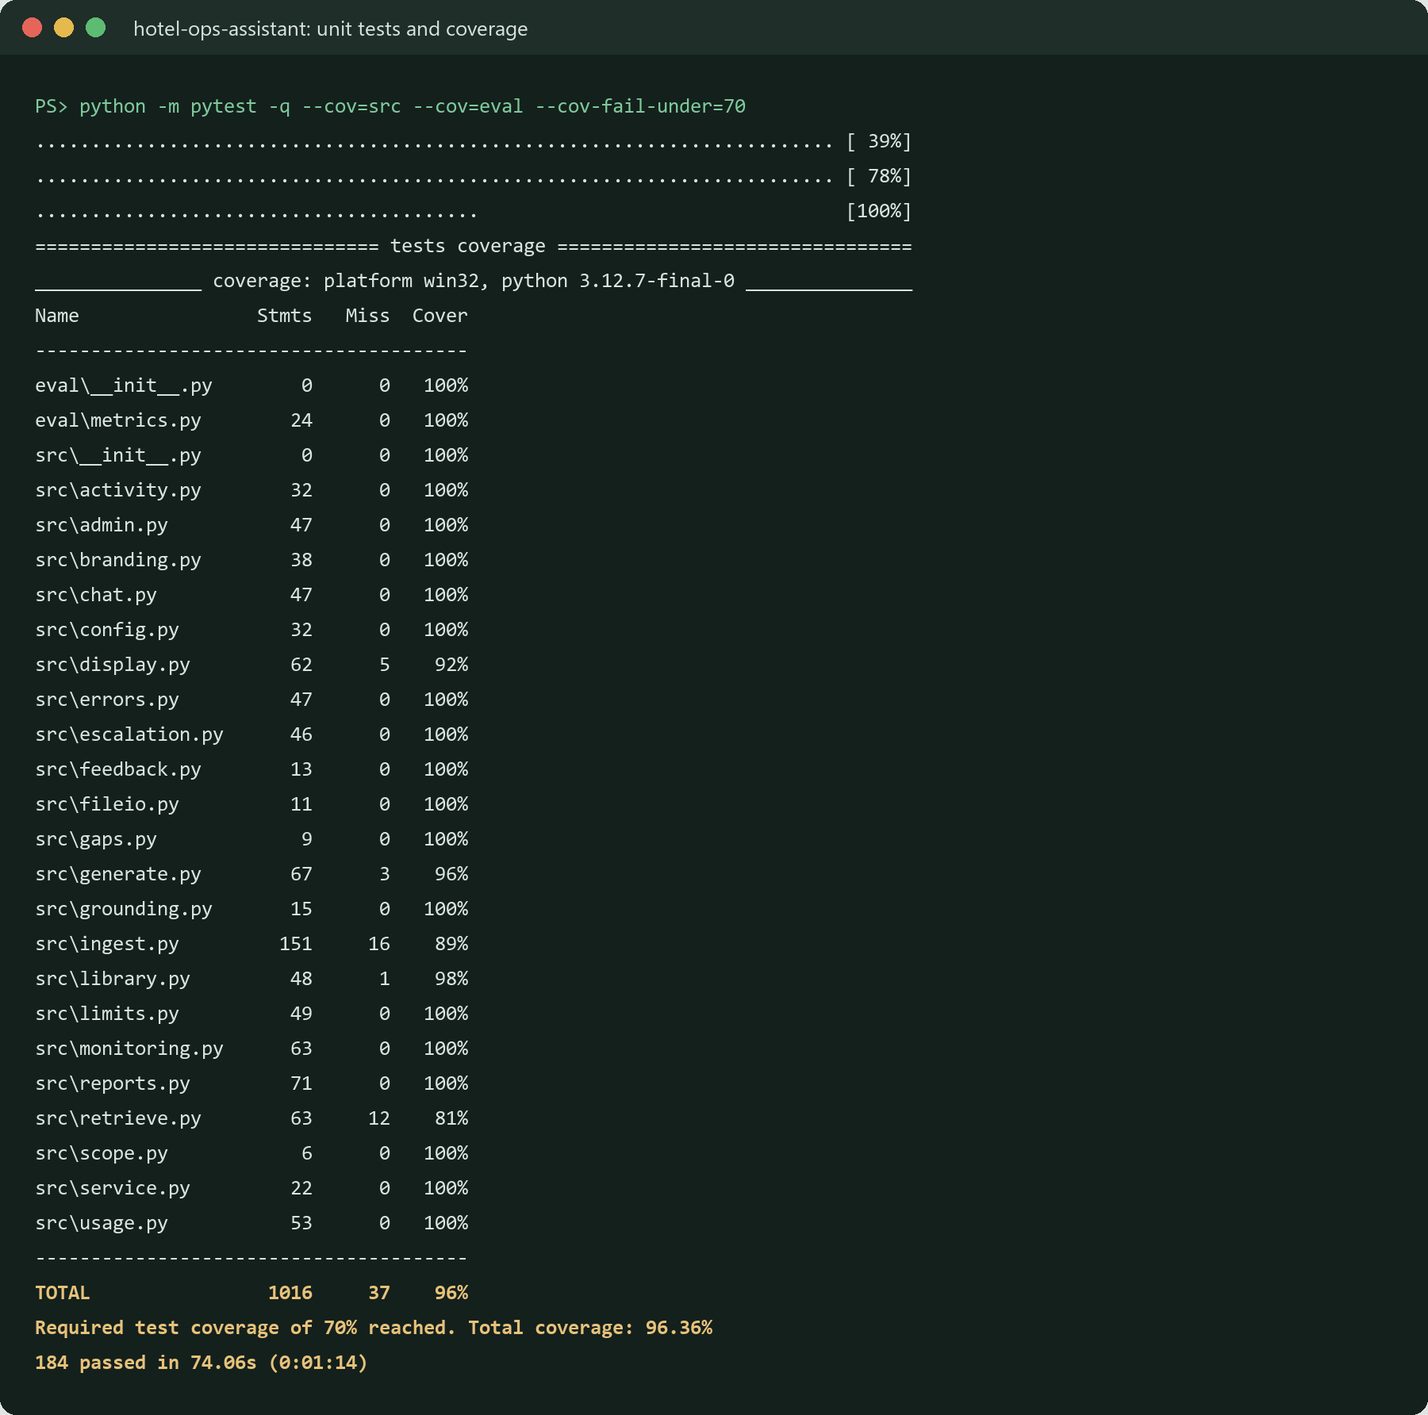
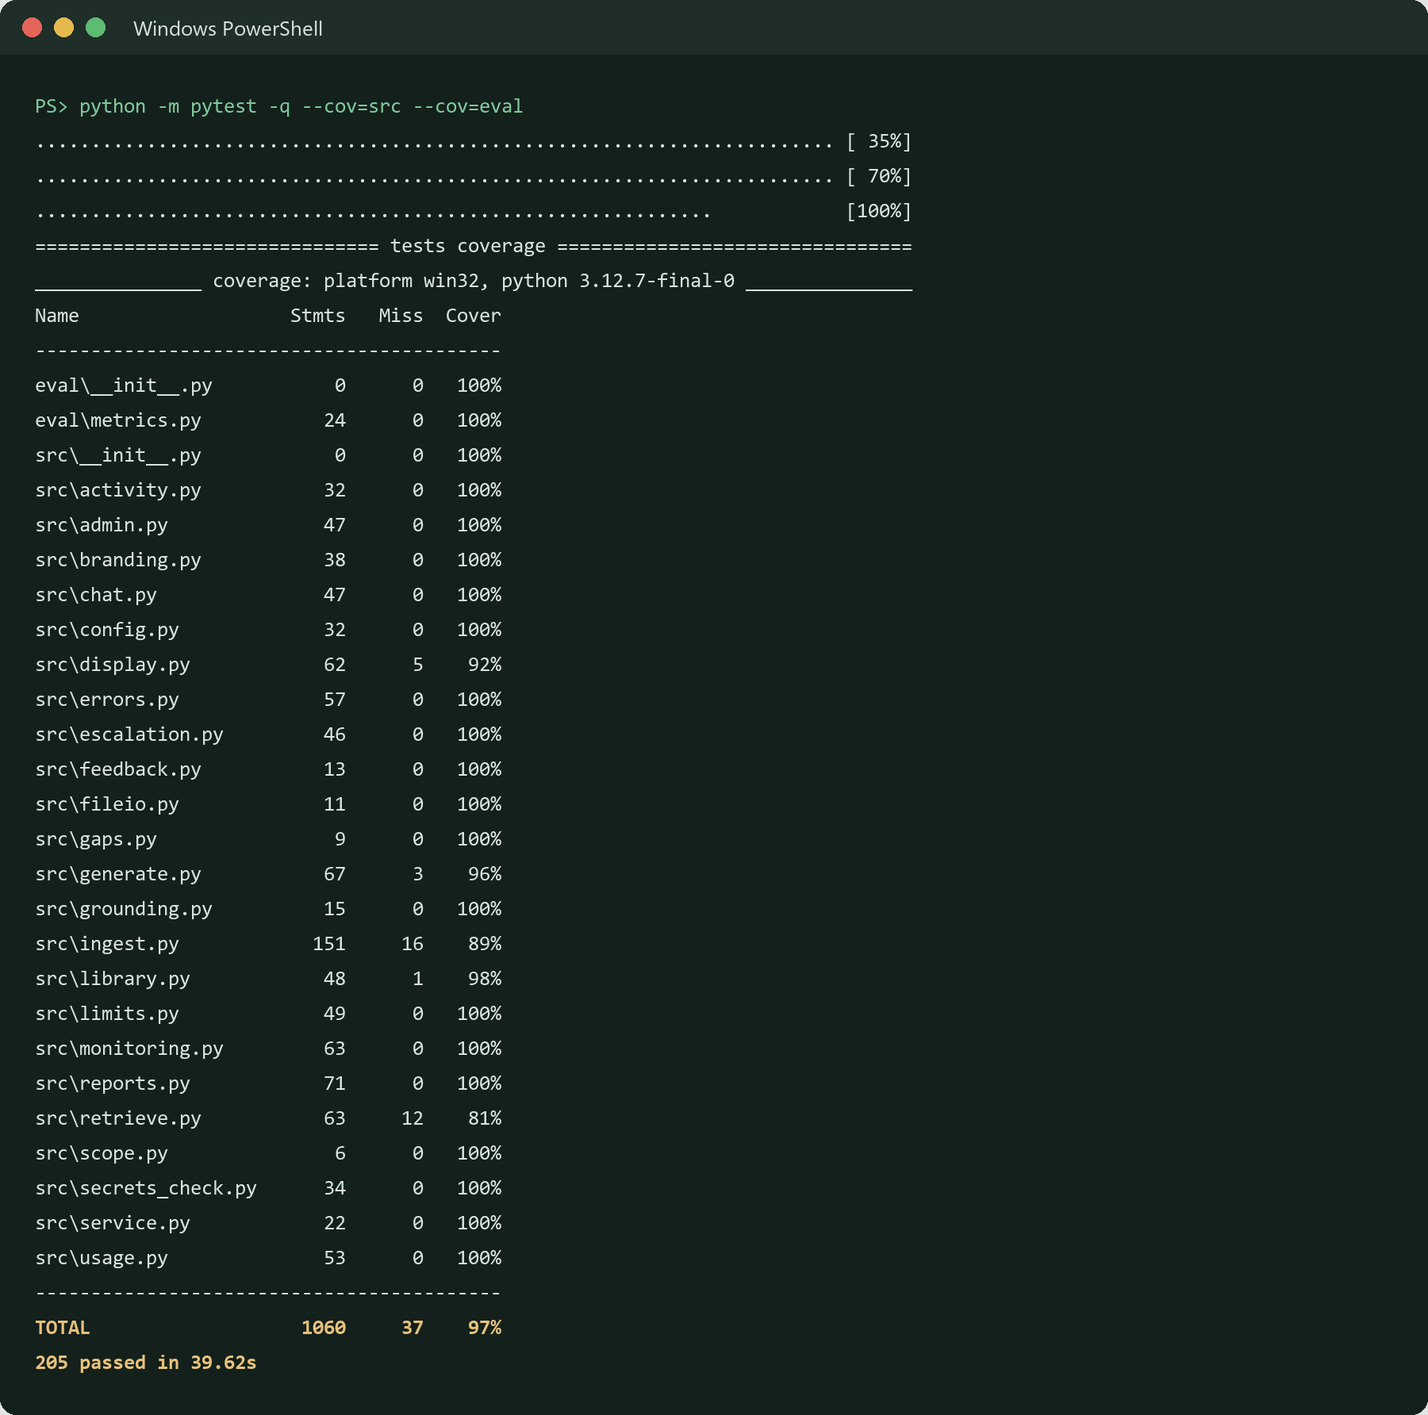
docs: secrets guide, settings order, decisions 40-41 and 1.3.2

diff --git a/README.md b/README.md
@@ -237,7 +237,7 @@ Every finding is in [DECISIONS.md](docs/DECISIONS.md) with its context, decision
 | Measuring quality, not guessing | [Eval harness](eval/), [Results](#results), raw answers saved per run |
 | Debugging with evidence | [DECISIONS.md](docs/DECISIONS.md) 13–39: grader bugs, the $75 root cause, the Streamlit startup hang, an uninstallable pin, a Windows file race reproduced with two processes |
 | Shipping a product people can use | Multi-page app, streaming, light/dark, phone layout, white-label branding |
-| Production engineering habits | 184 tests, CI with audit and coverage gates, Docker, error boundaries, owner monitoring, cost caps, [SECURITY.md](SECURITY.md) |
+| Production engineering habits | 205 tests, CI with audit and coverage gates, Docker, error boundaries, owner monitoring, cost caps, [SECURITY.md](SECURITY.md) |
 | Translating tech into business value | [BUSINESS_CASE.md](docs/BUSINESS_CASE.md), the Insights page for managers |
 
 ## Project structure
@@ -256,15 +256,16 @@ hotel-ops-assistant/
 │   ├── scope.py · escalation.py · grounding.py · gaps.py
 │   ├── chat.py · limits.py · usage.py · feedback.py · errors.py · admin.py · fileio.py
 │   ├── monitoring.py       # Health, warnings, activity table and CSV export for the Admin page
+│   ├── secrets_check.py    # Secrets set/missing (never values), startup check, secrets.toml builder
 │   └── display.py · branding.py · library.py · activity.py · reports.py
 ├── branding.toml           # White-label: product name, colors, properties, sample questions
 ├── assets/                 # Logo and favicon
 ├── data/raw/               # Hotel documents, one folder per property + shared/
 ├── eval/                   # Labeled questions, metrics, runner, saved reports
 ├── tests/                  # Unit tests
-├── scripts/                # Business case, demo PDFs, screenshots, terminal image renderer
+├── scripts/                # Business case, secrets.toml builder, demo PDFs, screenshots, terminal images
 ├── docs/                   # Architecture, decisions, business case, demo script, log, images
-├── .streamlit/config.toml  # Theme (light + dark), toolbar, file watcher
+├── .streamlit/             # config.toml (theme, toolbar, file watcher) · secrets.toml.example
 ├── .github/                # CI, Dependabot, PR template
 ├── .devcontainer/          # GitHub Codespaces setup (Python 3.12)
 ├── Dockerfile · Makefile · pyproject.toml · requirements*.txt
@@ -311,7 +312,16 @@ docker run -p 8501:8501 --env-file .env hotel-ops-assistant
 
 ## Configuration
 
-All settings live in `.env` (copy it from `.env.example`). On Streamlit Cloud, add the same names under **Secrets**.
+All settings live in `.env` (copy it from `.env.example`). On Streamlit Cloud they come from the app's **Secrets** (see [Secrets](#secrets-one-file-to-paste)).
+
+When the app runs (`streamlit run`, `run_app.ps1`), each setting is read in this order, first one wins:
+
+1. `.streamlit/secrets.toml` (Streamlit copies its top-level values into the environment at startup; on Streamlit Cloud, the app's Secrets)
+2. Environment variables already set (e.g. `docker run -e`)
+3. `.env`
+4. The defaults below
+
+The command-line tools (`ask.py`, the eval) read only the environment and `.env`. Docker never sees `secrets.toml` (it's in `.dockerignore`).
 
 | Variable | Default | Purpose |
 |---|---|---|
@@ -360,6 +370,7 @@ un_app.ps1` | |
 | Design-review screenshots, light/dark/phone | `python scripts/capture_review.py --phone` | |
 | Render command output as a terminal image | `python scripts/render_terminal.py out.txt image.png --command "..." --title "..."` | |
 | Regenerate demo PDFs | `python scripts/make_demo_pdfs.py` | `make pdfs` |
+| Build `.streamlit/secrets.toml` from `.env` (prints key names only) | `python scripts/make_secrets.py` | `make secrets` |
 | Build / run Docker image | `docker build -t hotel-ops-assistant .` / `docker run -p 8501:8501 --env-file .env hotel-ops-assistant` | |
 
 ## Troubleshooting
@@ -369,13 +380,15 @@ un_app.ps1` | |
 | `No index found` | Run `python -m src.ingest` (the app also builds it on first start) |
 | `No module named src` | Run commands from the project root folder |
 | `No matching distribution found for numpy~=2.5` | Use Python 3.12 (NumPy 2.5 doesn't support 3.11) |
-| "The demo is temporarily unavailable" | Check `ANTHROPIC_API_KEY` (no quotes or spaces) and your credit balance; the real error is in the logs and on the Admin page |
+| "The demo is temporarily unavailable" | The Admin page's **Most recent errors** shows the likely cause (authentication, credit balance, model not found, rate limit, network), and Manage app → Logs has the same line. Most often: a missing or wrong `ANTHROPIC_API_KEY` in Secrets, or no credit left |
 | Page stuck on "Starting up the assistant" for minutes | The first start downloads the embedding model. Keep `.streamlit/config.toml` (it stops Streamlit watching `.venv`), and use `run_app.ps1`, which also turns the watcher off for a faster local start |
 | Windows: "running scripts is disabled" | `Set-ExecutionPolicy -Scope CurrentUser RemoteSigned` |
 | PyTorch fails to install | Use Python 3.12, or run keyword-only with `requirements.txt` |
 | Answer uses an old policy | Mark the old file `status: superseded` and rebuild the index |
 | A new document isn't found | Rebuild the index after adding or editing documents |
-| No Admin page | Set `ADMIN_PASSWORD`, then open `/admin` (live: https://hotel-ops-assistant.streamlit.app/admin) |
+| No Admin page | `ADMIN_PASSWORD` isn't reaching the app. Set it, with the value in double quotes and at the top of Secrets (not under a `[section]`), reboot, then open `/admin` (live: https://hotel-ops-assistant.streamlit.app/admin) |
+| Local app runs keyword-only although `.env` says `USE_EMBEDDINGS=true` | `.streamlit/secrets.toml` wins over `.env` and mirrors the cloud (`"false"`). Use Docker for hybrid, or change it to `"true"` in your local copy |
+| Startup log says `Missing required secret: ...` | Add that key to Secrets (or `secrets.toml` / `.env` locally) and reboot. Logs name the key, never a value |
 | `run_app.ps1` says there's no `.venv` or `.env` | Do the first setup above once; the message shows the exact commands |
 
 ## Deploy
@@ -383,17 +396,26 @@ un_app.ps1` | |
 ### Free: Streamlit Community Cloud (keyword-only search)
 1. Push the repo to GitHub (public).
 2. Go to [share.streamlit.io](https://share.streamlit.io), sign in with GitHub, click **Create app**, choose this repo, branch `main`, main file `app.py`.
-3. Under **Advanced settings**, pick **Python 3.12** and add these secrets:
-   ```toml
-   ANTHROPIC_API_KEY = "your-key"
-   ADMIN_PASSWORD = "a-long-random-password"
-   PRICE_IN_PER_M = "0.10"
-   PRICE_OUT_PER_M = "0.50"
-   MAX_QUESTIONS_PER_SESSION = "20"
-   MAX_QUESTIONS_PER_DAY = "200"
-   USE_EMBEDDINGS = "false"
-   ```
+3. Under **Advanced settings**, pick **Python 3.12** and paste your secrets (next section).
 4. Click **Deploy**. The first start builds the search index automatically.
+
+### Secrets: one file to paste
+
+All the cloud settings live in one file, `.streamlit/secrets.toml`, built from your `.env`. It is git- and docker-ignored and never committed; [`.streamlit/secrets.toml.example`](.streamlit/secrets.toml.example) shows the same keys with placeholder values.
+
+```powershell
+python scripts/make_secrets.py   # writes .streamlit/secrets.toml; prints only "set" or "missing" per key
+```
+
+Then copy it into Streamlit Cloud:
+
+1. Open the file in an editor and copy everything (Ctrl+A, Ctrl+C). Don't paste it anywhere else.
+2. [share.streamlit.io](https://share.streamlit.io) → your app's **⋮** menu → **Settings** → **Secrets**.
+3. Paste, replacing what's there → **Save**.
+4. **Manage app** → **⋮** → **Reboot**.
+5. Open https://hotel-ops-assistant.streamlit.app/admin: the Health section should show every secret as **set**.
+
+Repeat only when a secret changes. Every key sits at the top level (no `[sections]`) and every value is in double quotes: Streamlit only copies top-level text and numbers into the environment, so an unquoted `USE_EMBEDDINGS = false` would be silently ignored.
 
 The live demo runs at **https://hotel-ops-assistant.streamlit.app**, open to everyone as a guest (no sign-in). **Every push to `main` redeploys it automatically** on Streamlit Cloud and runs CI on GitHub, so there's no manual deployment step.
 
@@ -415,7 +437,7 @@ Three places to check, from most to least specific:
 
 | Where | What it shows | How to open it |
 |---|---|---|
-| **Admin page** (this app) | Health (status, model, retrieval mode, uptime), questions today vs the daily cap, estimated cost today, the most recent errors, warnings when the error rate or cost crosses a threshold, a filterable activity table with 👍 / 👎, and CSV downloads of the usage, feedback and error logs | https://hotel-ops-assistant.streamlit.app/admin with your `ADMIN_PASSWORD` |
+| **Admin page** (this app) | Health (status, model, retrieval mode, uptime, each secret shown as set or missing), questions today vs the daily cap, estimated cost today, the most recent errors with their likely cause, warnings when the error rate or cost crosses a threshold, a filterable activity table with 👍 / 👎, and CSV downloads of the usage, feedback and error logs | https://hotel-ops-assistant.streamlit.app/admin with your `ADMIN_PASSWORD` |
 | **Streamlit's "Manage app" logs** | Server output: one line per question (no question text), errors with tracebacks, startup messages | Bottom-right of the live app → **Manage app**, or [share.streamlit.io](https://share.streamlit.io) |
 | **Anthropic Console usage page** | The real API usage and bill (the Admin page only estimates cost) | [console.anthropic.com](https://console.anthropic.com) → Usage |
 
@@ -424,7 +446,7 @@ Streamlit Cloud keeps logs, the error list and the daily counter only until the 
 ## Testing and quality
 
 ```bash
-python -m pytest -q --cov=src --cov=eval   # 184 unit tests, 96% coverage
+python -m pytest -q --cov=src --cov=eval   # 205 unit tests, 96.5% coverage
 python -m eval.run_eval                    # retrieval, scope and escalation eval (free)
 python -m eval.run_eval --answers --runs 3 --price-in 0.10 --price-out 0.50
 ruff check . && ruff format --check .      # lint and format
@@ -432,9 +454,9 @@ pip-audit -r requirements.txt              # known vulnerabilities
 ```
 
 <details>
-<summary>Test run: 184 passed, 96% coverage</summary>
+<summary>Test run: 205 passed, 96.5% coverage</summary>
 <br>
-<img src="docs/images/tests.png" alt="pytest output: 184 tests passed with 96.36% coverage" width="700">
+<img src="docs/images/tests.png" alt="pytest output: 205 tests passed with 96.51% coverage" width="700">
 </details>
 
 CI runs on the light install (no PyTorch): lint, format check, `pip-audit`, tests with a 70% minimum coverage, and a keyword-only retrieval regression gate (fails below 85%). Dependabot opens weekly update pull requests. Before release, a scripted Playwright QA pass clicked through every public page in light and dark mode at laptop and phone width (251 checks: links, text, limits, errors, admin lockout, console errors).
@@ -459,7 +481,7 @@ Only synthetic policy documents are indexed; no guest or payment data. Each ques
 |---|---|
 | [ARCHITECTURE.md](docs/ARCHITECTURE.md) | System and request-flow diagrams, components, scaling path |
 | [BUSINESS_CASE.md](docs/BUSINESS_CASE.md) | Value model, assumptions, policy gaps, pilot plan, KPIs, risks |
-| [DECISIONS.md](docs/DECISIONS.md) | 39 decisions with context, decision, tradeoff and result |
+| [DECISIONS.md](docs/DECISIONS.md) | 41 decisions with context, decision, tradeoff and result |
 | [ENGINEERING_LOG.md](docs/ENGINEERING_LOG.md) | What broke and how it was fixed, in my own words |
 | [DEMO_SCRIPT.md](docs/DEMO_SCRIPT.md) | Word-for-word 2-minute walkthrough |
 | [VALIDATION_CHECKLIST.md](docs/VALIDATION_CHECKLIST.md) | Steps that need a person: measured baseline, held-out questions |

diff --git a/docs/DECISIONS.md b/docs/DECISIONS.md
@@ -239,3 +239,24 @@ Read by hand: Haiku 5.5's only miss besides the Spanish question is a grader fal
 **Decision:** `.streamlit/config.toml` keeps the watcher on with `folderWatchBlacklist` excluding `.venv`, `venv`, `data`, `docs`, `eval/reports` and `.git`. Local runs and Docker pass `--server.fileWatcherType none`, because they never need reload-on-push.
 **Result:** Measured on this machine with hybrid search: first page in 92s with the watcher on and `.venv` excluded (it never finished in 5+ minutes before), and 36s with the watcher off. Streamlit Cloud (keyword-only, no PyTorch) can reload on push again; the running cloud app needed one manual reboot to pick up the new config.
 **Tradeoff:** A plain `streamlit run app.py` with hybrid search starts about a minute slower than `run_app.ps1`.
+
+## 40. Secrets come from one generated file, checked at startup and shown as "set" or "missing"
+**Context:** After 1.3.1 went live, every question returned "The demo is temporarily unavailable" and `/admin` didn't exist. The Admin page is registered only when `ADMIN_PASSWORD` is set, so neither secret was reaching the app's environment. The code can't see Streamlit Cloud's Secrets settings, so the exact mistake is unconfirmed. Likely causes: a missing key, or keys nested under a `[section]`. A third is an unquoted value, since Streamlit copies only top-level text and numbers into the environment and silently skips booleans and tables. Settings were also typed by hand from a README snippet that listed only 7 of the 16 settings.
+**Decision:** `python scripts/make_secrets.py` builds `.streamlit/secrets.toml` from `.env`:
+- It writes all 16 settings at the top level, every value double-quoted, with `USE_EMBEDDINGS` forced to `"false"`.
+- It checks the TOML round-trips and refuses to run unless the file is git-ignored.
+- It prints only "set" or "missing" per key.
+
+The owner pastes that one file into Streamlit Cloud. Supporting changes:
+- `.streamlit/secrets.toml.example` with placeholders is committed.
+- At startup the app logs `Missing required secret: <NAME>` for `ANTHROPIC_API_KEY` or `ADMIN_PASSWORD`, naming the key only.
+- The Admin page shows each secret as set or missing.
+
+The precedence (`secrets.toml` > environment > `.env` > defaults) is Streamlit's own behavior, now documented rather than reimplemented.
+**Tradeoff:** With `secrets.toml` present, a local `streamlit run` is keyword-only like the live demo, because the file wins over `.env`. Hybrid stays available through Docker, or by editing the local copy. Placeholder-looking values (`your-...`) count as missing.
+**Result:** Locally, the app read `USE_EMBEDDINGS="false"` from the generated file (How it works showed keyword-only), and the script reported all 4 checked keys as set. Unit tests use fake values only. The live result depends on the owner pasting the file and rebooting.
+
+## 41. API failures are logged with a plain "likely cause"
+**Context:** The private log and Admin error list showed short codes such as `auth` or `api_404`. A missing model ID, the easiest mistake to make in `LLM_MODEL`, appeared as a bare HTTP code.
+**Decision:** `NotFoundError` is classified as `model_not_found`. Every code maps to a plain category: authentication, credit balance, model not found, rate limit, network, Anthropic API error or unexpected. The category is stored with each error, written to the stdout log line (Manage app → Logs) and shown as "Likely cause" on the Admin page. Messages are still masked for anything that looks like a key.
+**Result:** Covered by unit tests with fake values. The configured `claude-haiku-5-5` was confirmed with the Models API (display name "Claude Haiku 5.5"), and it's the model the final 1.3.0 evals used (`eval/reports/2026-10-09_2143_hybrid_answers_claude-haiku-5-5.md` and `..._2146_bm25_...`).

diff --git a/docs/ARCHITECTURE.md b/docs/ARCHITECTURE.md
@@ -75,7 +75,8 @@ sequenceDiagram
 | Chat state | `src/chat.py` | Input validation, per-property histories, feedback reasons |
 | Limits | `src/limits.py` | Daily cap across all visitors (atomic file counter) |
 | Usage and feedback | `src/usage.py`, `src/feedback.py` | JSON Lines logs with retention; stdout logging without question text |
-| Errors | `src/errors.py` | Map API errors to one friendly message; private detail with secrets masked |
+| Errors | `src/errors.py` | Map API errors to one friendly message; private detail with secrets masked and a plain likely cause (authentication, credit, model, rate limit, network) |
+| Secrets check | `src/secrets_check.py`, `scripts/make_secrets.py` | Report each secret as set or missing (never a value), log missing ones at startup, build `.streamlit/secrets.toml` from `.env` |
 | Admin gate | `src/admin.py` | Constant-time password check, failure delay, lockout, sign out, idle auto-lock |
 | Monitoring | `src/monitoring.py` | Health, threshold warnings, activity table, filters, CSV export for the Admin page |
 | Safe file writes | `src/fileio.py` | Retries Windows file-sharing collisions so logs and the counter never crash a page |
@@ -85,7 +86,7 @@ sequenceDiagram
 | Pages | `app.py`, `views/` | Thin Streamlit pages; no logic beyond wiring |
 | CLI | `ask.py` | Quick command-line questions |
 | Evaluation | `eval/run_eval.py`, `eval/metrics.py`, `eval/questions.jsonl` | 54 questions; strict retrieval, answers, grounding, refusals, scope, escalation, latency, cost |
-| Tests | `tests/` | 184 tests, including every page rendered with `AppTest`; no API key or PyTorch needed |
+| Tests | `tests/` | 205 tests, including every page rendered with `AppTest`; no API key or PyTorch needed |
 
 ## Deployment modes
 | | Streamlit Community Cloud (live demo) | Docker (local or always-on host) |

diff --git a/SECURITY.md b/SECURITY.md
@@ -38,7 +38,7 @@ per-property access is planned for Project 4.
 
 | Threat | Impact | Mitigation | Status |
 |---|---|---|---|
-| API key leak | Someone spends the owner's credit | Key only in `.env` / Streamlit secrets; git- and docker-ignored; pre-commit key check; GitHub secret scanning + push protection; key masked in error logs | Mitigated |
+| API key leak | Someone spends the owner's credit | Key only in `.env`, `.streamlit/secrets.toml` (generated, never printed) or Streamlit secrets; both files git- and docker-ignored; startup check and Admin page report only "set" or "missing"; pre-commit key check; GitHub secret scanning + push protection; key masked in error logs | Mitigated |
 | Cost abuse by visitors | API bill grows | 20 questions per session, 200 per day across all visitors (server-side, survives refresh), 500-character limit, off-topic questions refused before the API, `max_tokens` cap; owner sets a spending limit in the Anthropic Console | Mitigated; the daily count resets if the cloud app restarts |
 | Prompt injection in documents or questions | Wrong or harmful instructions followed (e.g. "waive all fees") | System prompt treats sources as data; a planted injection is in the eval and checked by hand every run; answers can't take actions | Partly mitigated: prompt rules reduce, not eliminate, the risk |
 | XSS through answers, documents or questions | Script runs in a visitor's browser | All model output, document text and user input is HTML-escaped (and `$` escaped) before display; `unsafe_allow_html` only for static styling and a static diagram; unit tests with `<script>` input | Mitigated |

diff --git a/CHANGELOG.md b/CHANGELOG.md
@@ -2,6 +2,23 @@
 
 Format based on [Keep a Changelog](https://keepachangelog.com/). Versions follow [Semantic Versioning](https://semver.org/).
 
+## [1.3.2] - 2026-10-10
+### Added
+- `python scripts/make_secrets.py` (`make secrets`) builds `.streamlit/secrets.toml` from `.env`: every
+  setting at the top level and double-quoted, ready to paste into Streamlit Cloud. It prints only "set" or
+  "missing". `.streamlit/secrets.toml.example` shows the keys with placeholders.
+- Startup check: a missing `ANTHROPIC_API_KEY` or `ADMIN_PASSWORD` is logged by name, never by value.
+- Admin page: each secret shown as set or missing; recent errors show a plain "likely cause".
+- A line under the chat input: "Answers are written live by AI using only the documents in the Document
+  library", linking to that page.
+- README: a "Secrets" section (copy, paste, save, reboot) and the order settings are read in.
+- Tests for the secrets check, the secrets file, error categories, the new line and the Admin secrets status
+  (205 tests, 96% coverage).
+
+### Changed
+- API errors are classified with a model-not-found category and logged with their likely cause
+  (authentication, credit balance, model not found, rate limit, network).
+
 ## [1.3.1] - 2026-10-10
 ### Added
 - **Owner monitoring on the Admin page:** health and recent errors, warnings when the error rate or estimated

diff --git a/docs/images/README.md b/docs/images/README.md
@@ -6,7 +6,7 @@ Every image here is real output from this repo. Regenerate them after changes so
 | File | Shows | How to regenerate |
 |---|---|---|
 | `eval-retrieval.png` | 54-question eval, hybrid: retrieval, scope and escalation checks | `python -m eval.run_eval > out.txt`, then `python scripts/render_terminal.py out.txt docs/images/eval-retrieval.png --command "python -m eval.run_eval" --title "hotel-ops-assistant: retrieval, scope and escalation eval (hybrid)"` |
-| `tests.png` | `pytest` with coverage: 184 passed, 96% | `python -m pytest -q --cov=src --cov=eval > out.txt`, then render as above |
+| `tests.png` | `pytest` with coverage: 205 passed, 96% | `python -m pytest -q --cov=src --cov=eval > out.txt`, then render as above |
 | `business-case.png` | Calculator scenarios, 100 properties (projection) | `python scripts/business_case.py --scenarios --properties 100 --hosting 15000 > out.txt`, then render |
 
 ## App screenshots (captured from the running app with real questions)
